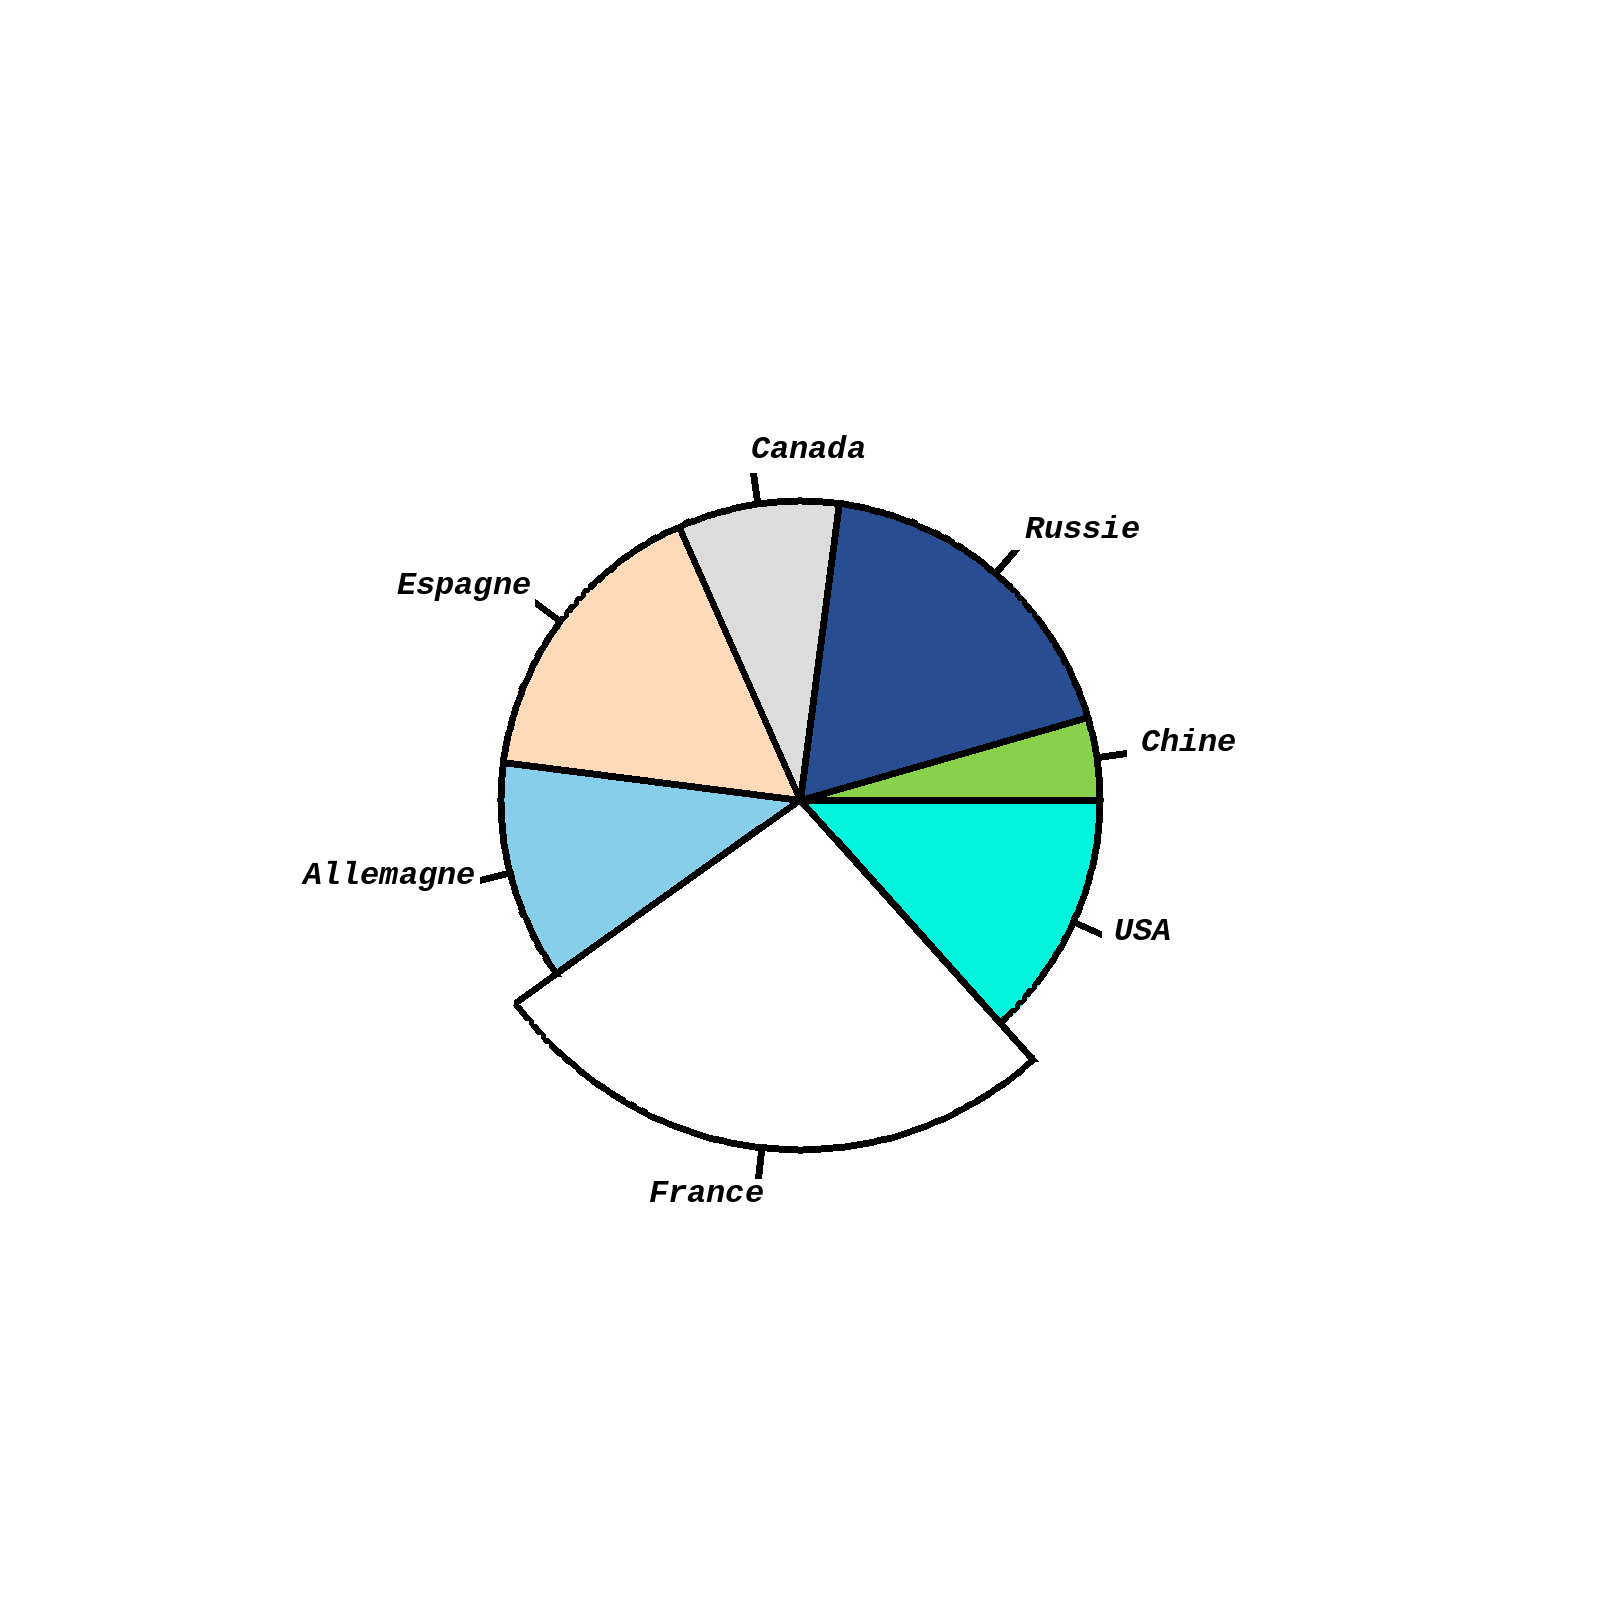
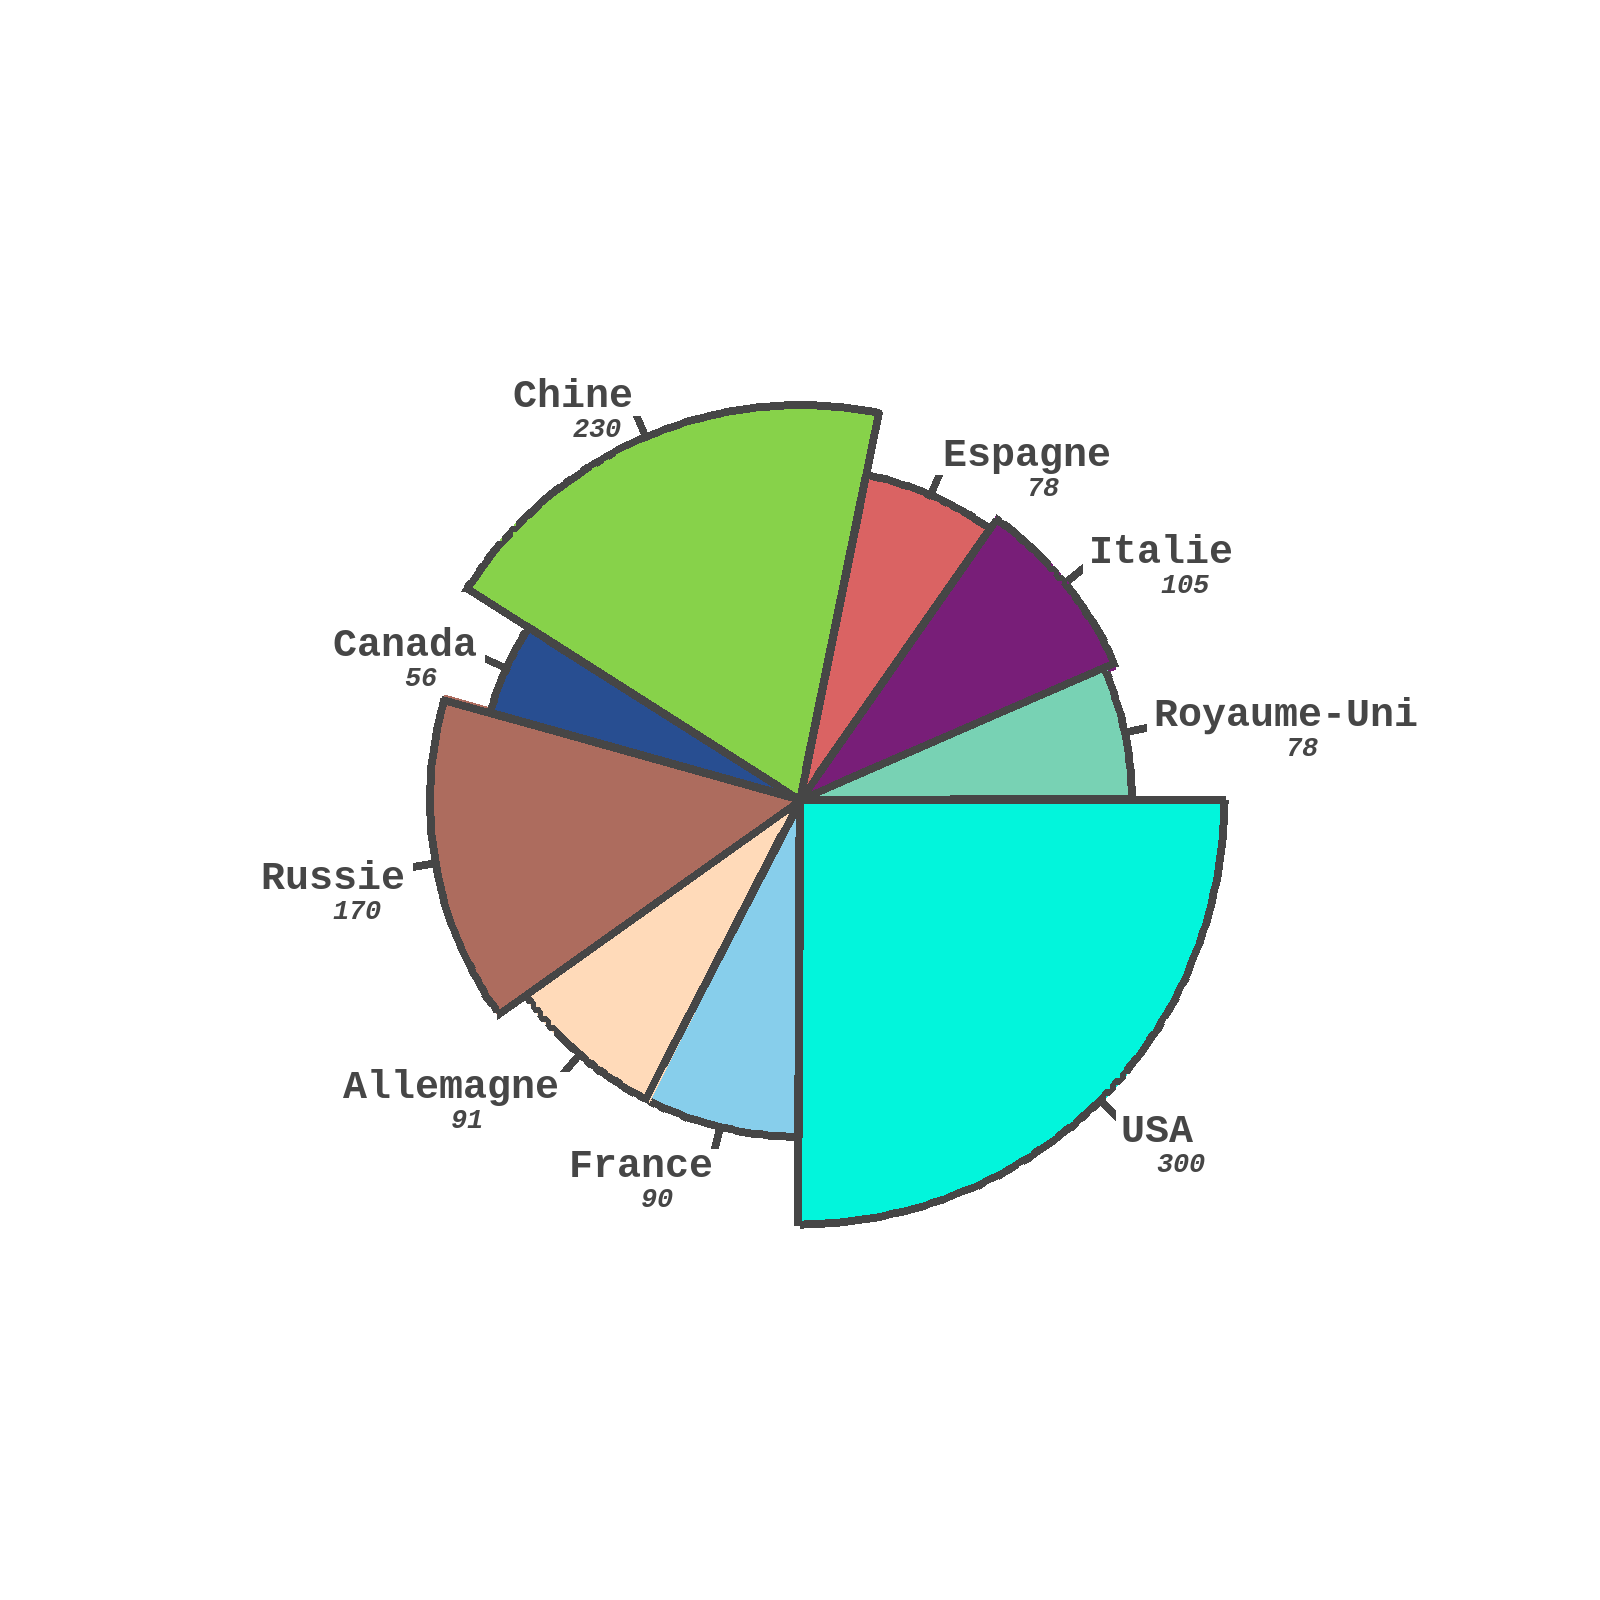
added several layout option

Changed region(s): [[0.1562, 0.2188, 0.875, 0.7812]]

diff --git a/main.c b/main.c
@@ -5,63 +5,91 @@
 #include <math.h>
 
 
-void textGap (float *textGap1,float *textGap2, float DegreSumAngle,char * stringTable){
+void textGap (float *textGap1,float *textGap2,float *textGap3,float *textGap4, float DegreSumAngle,float DegreAngleDiv2,char * stringTable){
+    // Add additional form to print the text better (avoid overlap)
 
-    // Add additional form to the printed text (So that it does not overlap the pie or the hyphen)
-    if (DegreSumAngle<=90){
+    if (DegreSumAngle-DegreAngleDiv2<=90){ // "South-East" pie slice text as te be y slided
+        *textGap1=0;
+        *textGap2=-20;
+        int tmp = -strlen(stringTable)*24/2;  // if tmp not used, it does not  work properly
+        *textGap3=tmp;
+        *textGap4=-50;
+    }
+
+    else if(DegreSumAngle-DegreAngleDiv2<=180.0){ // "South-West" pie slice text as te be x and y slided
+        *textGap1=strlen(stringTable)*24;
+        *textGap2=-20;
+        *textGap3=(strlen(stringTable)*24)/2;
+        *textGap4=-50;
+    }
+    else if(DegreSumAngle-DegreAngleDiv2<=270.0){ // "North-West" pie slice text as te be x slided
+        *textGap1=strlen(stringTable)*24;
+        *textGap2=0;
+        *textGap3=(strlen(stringTable)*24)/2;
+        *textGap4=-30;
+    }
+    else { // "North-East" No slide needed
         *textGap1=0;
         *textGap2=0;
-    }
-    else if(DegreSumAngle>=100.0 && DegreSumAngle<=180.0){ // "west-south" pie text as te be x and y sliced a bit to not be printed on the pie
-        *textGap1=strlen(stringTable)*18;
-        *textGap2=15;
-    }
-    else if(DegreSumAngle>=180.0 && DegreSumAngle<=270.0){ // "west" pie text as te be x sliced a bit to not be printed on the pie
-        *textGap1=strlen(stringTable)*18;
-        *textGap2=0;
-    }
-    else {
-        *textGap1=0;
-        *textGap2=0;
+        int tmp = -strlen(stringTable)*24/2;// if tmp not used, it does not  work properly
+        *textGap3=tmp;
+        *textGap4=-30;
     }
 }
 int main(int argc, char *argv[])
 {
-    // Variable initialization
-    char *stringTable[argc-1];
+
+    // Parse arguments //
+    char *stringTable[argc-2]; // Names table
+    char *nbTableChar[argc-2]; // Numbers table
     float *nbTable=NULL;// table of all angle
-    float *nbTable360=NULL;// table of all angle in degre (360°)
-    float *nbTableSum360=NULL;// table of the progressive sum of all angle in degre (360°)
-    nbTable = (float *)malloc((argc-1) * sizeof(float));
-    nbTableSum360 = (float *)malloc((argc-1) * sizeof(float));
-    nbTable360 = (float *)malloc((argc-1) * sizeof(float));
+    nbTable = (float *)malloc((argc-2) * sizeof(float));
+    char *outputArguments; // Output arguments
+    float outputArgumentsnombres; // Output arguments in float
+    int outputNombresInt; // Output arguments in int
 
-    // Parse arguments
-    float outputArgumentsnombres;
-    for (int i=1; i<argc; i++) {
+    // Argument mode retrieve //
+    int modeType;
+    int mode;
+    while ((mode = getopt(argc, argv, "nbd")) != -1) {
+        if (mode=='n'){modeType=1;}
+        else if(mode=='b'){modeType=2;}
+        else if(mode=='d'){modeType=3;}}
 
-        // Strings Name arguments retrieve
-        char *outputArguments = strtok(argv[i], "=");
-        stringTable[i-1]=(char*)malloc((strlen(outputArguments) + 1));
-        strcpy(stringTable[i-1], outputArguments);
+    for (int i=2; i<argc; i++) {
 
-        // Numbers name arguements retrieve
+        // Arguments name retrieve
+        outputArguments = strtok(argv[i], "=");
+        stringTable[i-2]=(char*)malloc((strlen(outputArguments) + 1));
+        strcpy(stringTable[i-2], outputArguments);
+
+        // Arguments number retrieve
         outputArguments = strtok(NULL, "=");
         outputArgumentsnombres=atof(outputArguments);
-        nbTable[i-1]=outputArgumentsnombres;
+        outputNombresInt=atoi(outputArguments);
+        nbTable[i-2]=outputArgumentsnombres;
+
+        nbTableChar[i-2]=(char*)malloc(20*sizeof(char));
+        sprintf(nbTableChar[i-2], "%d",outputNombresInt);
     }
 
-    // Number sum calculation
-    float sum;
-    for (int i=0; i<argc-1; i++){
+    // Number sum calculation //
+    float sum=0.0;
+    for (int i=0; i<argc-2; i++){
         sum+=nbTable[i];
     }
-
-    // Number sum calculation for 360°
+    // Number sum calculation for 360° and ratios calculation //
+    float *nbTableSum360 = (float *)malloc((argc-2) * sizeof(float));// table of the progressive sum of all angle in degre (360°)
+    float *nbTable360 = (float *)malloc((argc-2) * sizeof(float));// table of all angle in degre (360°)
+    float *nbTable1000 = (float *)malloc((argc-2) * sizeof(float));// table of all argument values bring back to a 1000 ( empiric value which can be modify for more distorded pie chart)
+    float *ratio = (float *)malloc((argc-2) * sizeof(float));
     float sumPour360=0.0;
-    for (int i=0; i<argc-1; i++) {
+    for (int i=0; i<argc-2; i++) {
         sumPour360+=nbTable[i]*360/sum;
         nbTable360[i]=nbTable[i]*360/sum;
+        nbTable1000[i]=nbTable[i]*1000/sum;
+        ratio[i]=nbTable1000[i]/600;
+
         nbTableSum360[i]=sumPour360;
 
     }
@@ -69,13 +97,12 @@ int main(int argc, char *argv[])
     // Get the biggest number
     float biggestNumber=0;
     float tmpNumber;
-    for (int i=0; i<argc-1; i++) {
+    for (int i=0; i<argc-2; i++) {
         tmpNumber=nbTable360[i];
         if (tmpNumber>biggestNumber){
             biggestNumber=tmpNumber;
         }
     }
-
 
     // Image initialization
     gdImagePtr image;
@@ -87,13 +114,15 @@ int main(int argc, char *argv[])
     gdImageSetAntiAliased(image, gdAntiAliased);
 
     // Text Parameters
-    gdImageSetThickness(image, 7);
-    gdFontPtr font = gdFontGetLarge();
-    int font_size = 24;
-    char *font_path = "/usr/share/fonts/truetype/liberation2/LiberationMono-BoldItalic.ttf";
+    gdImageSetThickness(image, 8);
+    int font_size1 = 30;
+    int font_size2 = 20;
+    char *font_path1 = "/usr/share/fonts/truetype/liberation2/LiberationMono-Bold.ttf";
+    char *font_path2 = "/usr/share/fonts/truetype/liberation2/LiberationMono-BoldItalic.ttf";
+
 
     // Colors
-    char *colorTable[8];
+    int colorTable[8];
     int color1 = gdImageColorAllocate(image, 2, 245, 220);
     int color2 = gdImageColorAllocate(image, 135, 206, 235);
     int color3 = gdImageColorAllocate(image, 255, 218, 185);
@@ -102,7 +131,8 @@ int main(int argc, char *argv[])
     int color6 = gdImageColorAllocate(image, 135, 210, 74);
     int color7 = gdImageColorAllocate(image, 218, 99, 99);
     int color8 = gdImageColorAllocate(image, 120, 30, 120);
-    int color9 = gdImageColorAllocate(image, 255, 255, 255);
+    int color9 = gdImageColorAllocate(image, 120, 210, 180);
+    int color10 = gdImageColorAllocate(image, 255, 255, 255);
     int colorline1 =gdImageColorAllocate(image, 70, 70, 70);
     colorTable[0]=color1;
     colorTable[1]=color2;
@@ -115,10 +145,10 @@ int main(int argc, char *argv[])
     colorTable[8]=color9;
 
 
-
     // Add pie slice, texte (and the small line pointing to it) and the outline of the pie //
-    float angleMinus1;
 
+    // Angle variables
+    float angleMinus1;
     float DegreAngle,DegreSumAngle,radAngle,radAngleMid;
 
     // Center of the pie
@@ -140,11 +170,12 @@ int main(int argc, char *argv[])
     float newX2;
     float newY2;
 
-    float textGap1;// The more the string is big, the more the text have to be x slided
-    float textGap2;// Add a gap to balance the text width
-
+    float textGap1;// The string name has to be x slided
+    float textGap2;// Add a gap to balance the string width
+    float textGap3;// The string value has to be x slided
+    float textGap4;// Add a gap to balance the string width
     // For loop on each arguments
-    for (int i=0; i<argc-1; i++)
+    for (int i=0; i<argc-2; i++)
     {
         if (i==0){
             angleMinus1=0.0;
@@ -171,10 +202,30 @@ int main(int argc, char *argv[])
         newstartX2 = newX2+centrex1;
         newstartY2 = newY2+centrey1;
 
-        textGap(&textGap1,&textGap2,DegreSumAngle,stringTable[i]);
+        textGap(&textGap1,&textGap2,&textGap3,&textGap4,DegreSumAngle,DegreAngle,stringTable[i]);
 
+        if(modeType==3)
+        {
+            // Print the vector serving for the hyphen
+            // In this line gdImageLine is of form gdImageLine(image,x1 ,y1 ,x2 ,y2 , colorline1);
+            // For x1 = centrex1+0.27*(newHalfCutX2+centrex1-centrex1), `centrex1` is the "0" of the vector and `+0.27*(newHalfCutX2+centrex1-centrex1)` is the scalar function that slide the the vector forward so that the "0" moove foward in the same direction
+            // For x2 = centrex1+newHalfCutX2+0.27*(newHalfCutX2+centrex1-centrex1), `centrex1+newHalfCutX2` is the x value of the vector and `+0.27*(newHalfCutX2+centrex1-centrex1)` is the scalar function
+            // Same for y1 and y2
+            gdImageLine(image,centrex1+(ratio[i]+0.07)*(newHalfCutX2+centrex1-centrex1) ,centrey1+(ratio[i]+0.07)*(newHalfCutY2+centrey1-centrey1) ,centrex1+newHalfCutX2+(ratio[i]+0.07)*(newHalfCutX2+centrex1-centrex1) ,centrey1+newHalfCutY2+(ratio[i]+0.07)*(newHalfCutY2+centrey1-centrey1) , colorline1);//Origine
 
-        if (nbTable360[i]==biggestNumber)
+            // Print the filled arc using the center point and the angle i-1 and i to determine the range
+            gdImageFilledArc(image, 800, 800, 600+nbTable1000[i], 600+nbTable1000[i],angleMinus1+0.7,nbTableSum360[i]+0.5, colorTable[i],gdPie);
+
+            // Print the outline of each arc around the pie
+            gdImageArc(image, 800, 800, 600+nbTable1000[i], 600+nbTable1000[i],angleMinus1+0.5,nbTableSum360[i]+0.5, colorline1);
+
+            // Print the name around the pie
+            gdImageStringFT(image, NULL, colorline1, font_path1, font_size1, 0, (centrex1+newHalfCutX2+(ratio[i]+0.10)*(newHalfCutX2+centrex1-centrex1))-textGap1, centrey1+newHalfCutY2+(ratio[i]+0.10)*(newHalfCutY2+centrey1-centrey1)-textGap2, stringTable[i]);
+            // Print the value around the pie
+            gdImageStringFT(image, NULL, colorline1, font_path2, font_size2, 0, (centrex1+newHalfCutX2+(ratio[i]+0.10)*(newHalfCutX2+centrex1-centrex1))-textGap3, centrey1+newHalfCutY2+(ratio[i]+0.10)*(newHalfCutY2+centrey1-centrey1)-textGap4, nbTableChar[i]);
+
+        }
+        else if (nbTable360[i]==biggestNumber && modeType==2)
         {
             // Print the vector serving for the hyphen
             // In this line gdImageLine is of form gdImageLine(image,x1 ,y1 ,x2 ,y2 , colorline1);
@@ -184,13 +235,15 @@ int main(int argc, char *argv[])
             gdImageLine(image,centrex1+0.27*(newHalfCutX2+centrex1-centrex1) ,centrey1+0.27*(newHalfCutY2+centrey1-centrey1) ,centrex1+newHalfCutX2+0.27*(newHalfCutX2+centrex1-centrex1) ,centrey1+newHalfCutY2+0.27*(newHalfCutY2+centrey1-centrey1) , colorline1);//Origine
 
             // Print the filled arc using the center point and the angle i-1 and i to determine the range
-            gdImageFilledArc(image, 800, 800, 700, 700,angleMinus1+1,nbTableSum360[i], colorTable[i],NULL);
+            gdImageFilledArc(image, 800, 800, 700, 700,angleMinus1+1,nbTableSum360[i], colorTable[i],gdPie);
 
             // Print the outline of each arc around the pie
             gdImageArc(image, 800, 800, 700, 700,angleMinus1,nbTableSum360[i], colorline1);
 
-            // Print the text around the pie
-            gdImageStringFT(image, NULL, colorline1, font_path, font_size, 0, (centrex1+newHalfCutX2+0.3*(newHalfCutX2+centrex1-centrex1))-textGap1, centrey1+newHalfCutY2+0.3*(newHalfCutY2+centrey1-centrey1)+textGap2, stringTable[i]);
+            // Print the name around the pie
+            gdImageStringFT(image, NULL, colorline1, font_path1, font_size1, 0, (centrex1+newHalfCutX2+0.28*(newHalfCutX2+centrex1-centrex1))-textGap1, centrey1+newHalfCutY2+0.28*(newHalfCutY2+centrey1-centrey1)-textGap2, stringTable[i]);
+            // Print the value around the pie
+            gdImageStringFT(image, NULL, colorline1, font_path2, font_size2, 0, (centrex1+newHalfCutX2+0.28*(newHalfCutX2+centrex1-centrex1))-textGap3, centrey1+newHalfCutY2+0.28*(newHalfCutY2+centrey1-centrey1)-textGap4, nbTableChar[i]);
 
 
         }
@@ -200,36 +253,44 @@ int main(int argc, char *argv[])
             gdImageLine(image,centrex1+0.1*(newHalfCutX2+centrex1-centrex1) ,centrey1+0.1*(newHalfCutY2+centrey1-centrey1) ,centrex1+newHalfCutX2+0.1*(newHalfCutX2+centrex1-centrex1) ,centrey1+newHalfCutY2+0.1*(newHalfCutY2+centrey1-centrey1) , colorline1);//Origine
 
             // Print the arc using the center point and the angle i-1 and i to determine the range
-            gdImageFilledArc(image, 800, 800, 600, 600,angleMinus1+1,nbTableSum360[i]+0.5, colorTable[i],NULL); // angleMinus1 +1 for aligning pie slice and black line of slice
+            gdImageFilledArc(image, 800, 800, 600, 600,angleMinus1+1,nbTableSum360[i]+0.5, colorTable[i],gdPie); // angleMinus1 +1 for aligning pie slice and black line of slice
 
             // Print the outline of each arc around the pie
             gdImageArc(image, 800, 800, 600, 600,angleMinus1,nbTableSum360[i], colorline1);
 
-            // Print the text around the pie
-            gdImageStringFT(image, NULL, colorline1, font_path, font_size, 0, (centrex1+newHalfCutX2+0.15*(newHalfCutX2+centrex1-centrex1))-textGap1, centrey1+newHalfCutY2+0.15*(newHalfCutY2+centrey1-centrey1)+textGap2, stringTable[i]);
+            // Print the name around the pie
+            gdImageStringFT(image, NULL, colorline1, font_path1, font_size1, 0, (centrex1+newHalfCutX2+0.15*(newHalfCutX2+centrex1-centrex1))-textGap1, centrey1+newHalfCutY2+0.15*(newHalfCutY2+centrey1-centrey1)-textGap2, stringTable[i]);
+            // Print the value around the pie
+            gdImageStringFT(image, NULL, colorline1, font_path2, font_size2, 0, (centrex1+newHalfCutX2+0.15*(newHalfCutX2+centrex1-centrex1))-textGap3, centrey1+newHalfCutY2+0.15*(newHalfCutY2+centrey1-centrey1)-textGap4, nbTableChar[i]);
+
         }
 
     }
 
     // Add separating lines between each pie slice //
-    // New for loop is used to print over the pie
+    // This for loop is used separatly to print over the pie
     // Original position
     startX2=1100;
     startY2=800;
     // Necessary if the first number/slide of pie is the biggest
     float newX2Minus1=300;
     float newY2Minus1=0;
-    for (int i=0; i<argc-1; i++)
+    for (int i=0; i<argc-2; i++)
     {   // See above for explanation for this lines
         DegreSumAngle=nbTableSum360[i];
         radAngle=DegreSumAngle*M_PI/180;
         newX2=(startX2-centrex1)*cos(radAngle)-(startY2-centrey1)*sin(radAngle);
         newY2=(startX2-centrex1)*sin(radAngle)+(startY2-centrey1)*cos(radAngle);
-        if (nbTable360[i]==biggestNumber)
+        if(modeType==3){
+            gdImageLine(image, centrex1+ratio[i]*(newX2+centrex1-centrex1), centrey1+ratio[i]*(newY2+centrey1-centrey1),centrex1+newX2+ratio[i]*(newX2+centrex1-centrex1), centrey1+newY2+ratio[i]*(newY2+centrey1-centrey1), colorline1);//Origine
+            gdImageLine(image, centrex1+ratio[i]*(newX2Minus1+centrex1-centrex1), centrey1+ratio[i]*(newY2Minus1+centrey1-centrey1),centrex1+newX2Minus1+ratio[i]*(newX2Minus1+centrex1-centrex1), centrey1+newY2Minus1+ratio[i]*(newY2Minus1+centrey1-centrey1), colorline1);//Origine
+
+        }
+        else if (nbTable360[i]==biggestNumber && modeType==2)
         {
             // See precedent use of gdImageLine to get explanation of this lines
-            gdImageLine(image, centrex1+0.17*(newX2+centrex1-centrex1), centrey1+0.17*(newY2+centrey1-centrey1),centrex1+newX2+0.17*(newX2+centrex1-centrex1), centrey1+newY2+0.17*(newY2+centrey1-centrey1), colorline1);//Origine
-            gdImageLine(image, centrex1+0.17*(newX2Minus1+centrex1-centrex1), centrey1+0.17*(newY2Minus1+centrey1-centrey1),centrex1+newX2Minus1+0.17*(newX2Minus1+centrex1-centrex1), centrey1+newY2Minus1+0.17*(newY2Minus1+centrey1-centrey1), colorline1);//Origine
+            gdImageLine(image, centrex1+0.166*(newX2+centrex1-centrex1), centrey1+0.166*(newY2+centrey1-centrey1),centrex1+newX2+0.166*(newX2+centrex1-centrex1), centrey1+newY2+0.166*(newY2+centrey1-centrey1), colorline1);//Origine
+            gdImageLine(image, centrex1+0.166*(newX2Minus1+centrex1-centrex1), centrey1+0.166*(newY2Minus1+centrey1-centrey1),centrex1+newX2Minus1+0.166*(newX2Minus1+centrex1-centrex1), centrey1+newY2Minus1+0.166*(newY2Minus1+centrey1-centrey1), colorline1);//Origine
 
         }
         gdImageLine(image, centrex1, centrey1,centrex1+newX2, centrey1+newY2, colorline1);
@@ -252,8 +313,10 @@ int main(int argc, char *argv[])
 
     // Free space
     free(nbTable);
+    free(ratio);
     free(nbTable360);
     free(nbTableSum360);
+    free(nbTable1000);
 
     return 0;
 }
